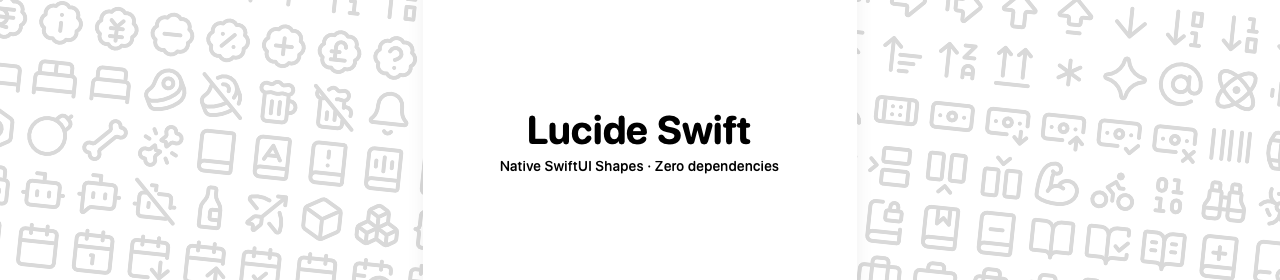
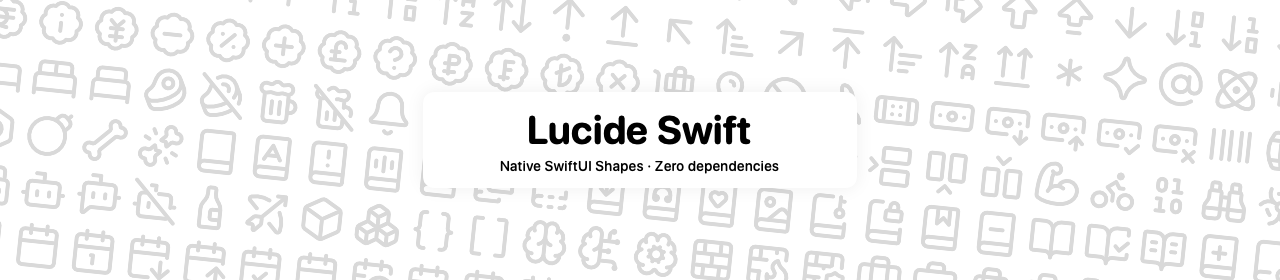
fix: white card wraps text only, centered in canvas
Removed Spacers so the card background fits tightly around the text
instead of stretching to full canvas height. ZStack centers it.

diff --git a/Sources/PreviewGenerator/SocialPreview.swift b/Sources/PreviewGenerator/SocialPreview.swift
@@ -83,14 +83,12 @@ public struct SocialPreview: View {
         let subtitleSize = canvasHeight * 0.05
 
         return VStack(spacing: canvasHeight * 0.02) {
-            Spacer()
             Text("Lucide Swift")
                 .font(.system(size: titleSize, weight: .bold, design: .rounded))
                 .foregroundColor(.black)
             Text("Native SwiftUI Shapes · Zero dependencies")
                 .font(.system(size: subtitleSize, weight: .medium, design: .rounded))
                 .foregroundColor(.black)
-            Spacer()
         }
         .padding(.horizontal, canvasWidth * 0.06)
         .padding(.vertical, canvasHeight * 0.05)
@@ -99,7 +97,6 @@ public struct SocialPreview: View {
                 .fill(.white)
                 .shadow(color: .black.opacity(0.06), radius: canvasHeight * 0.03)
         )
-        .padding(canvasHeight * 0.05)
     }
 }
 
